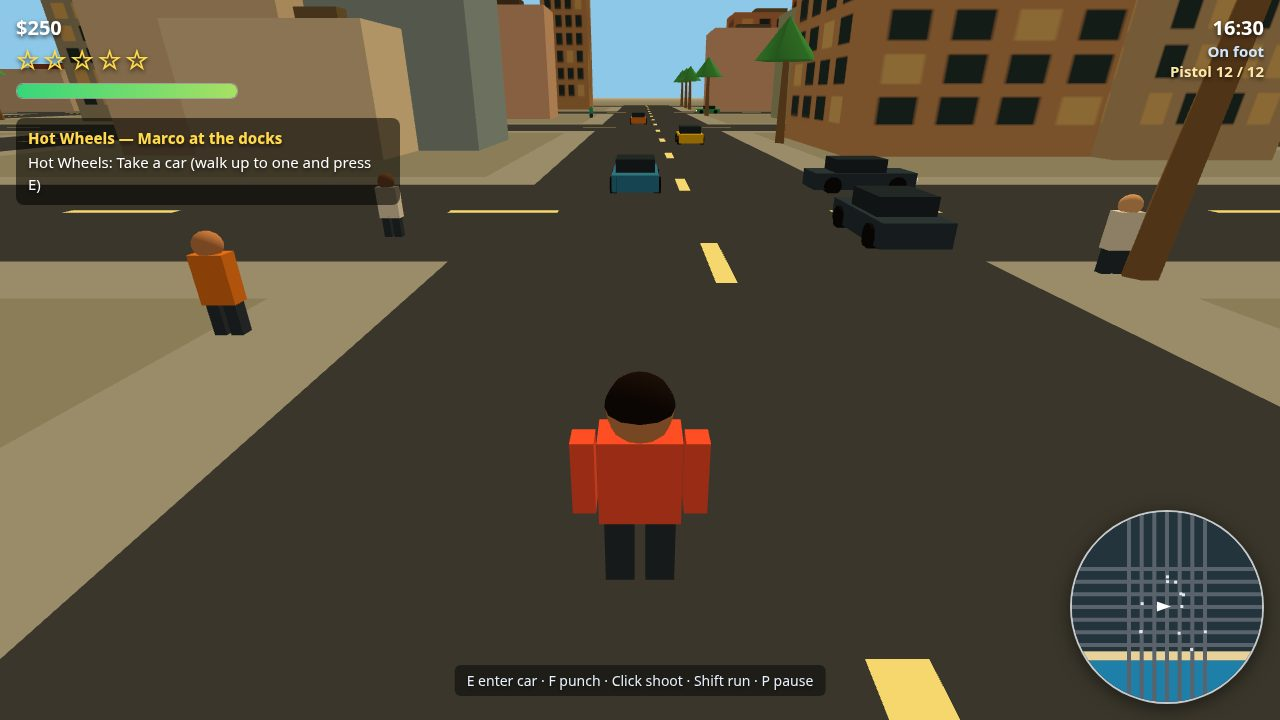
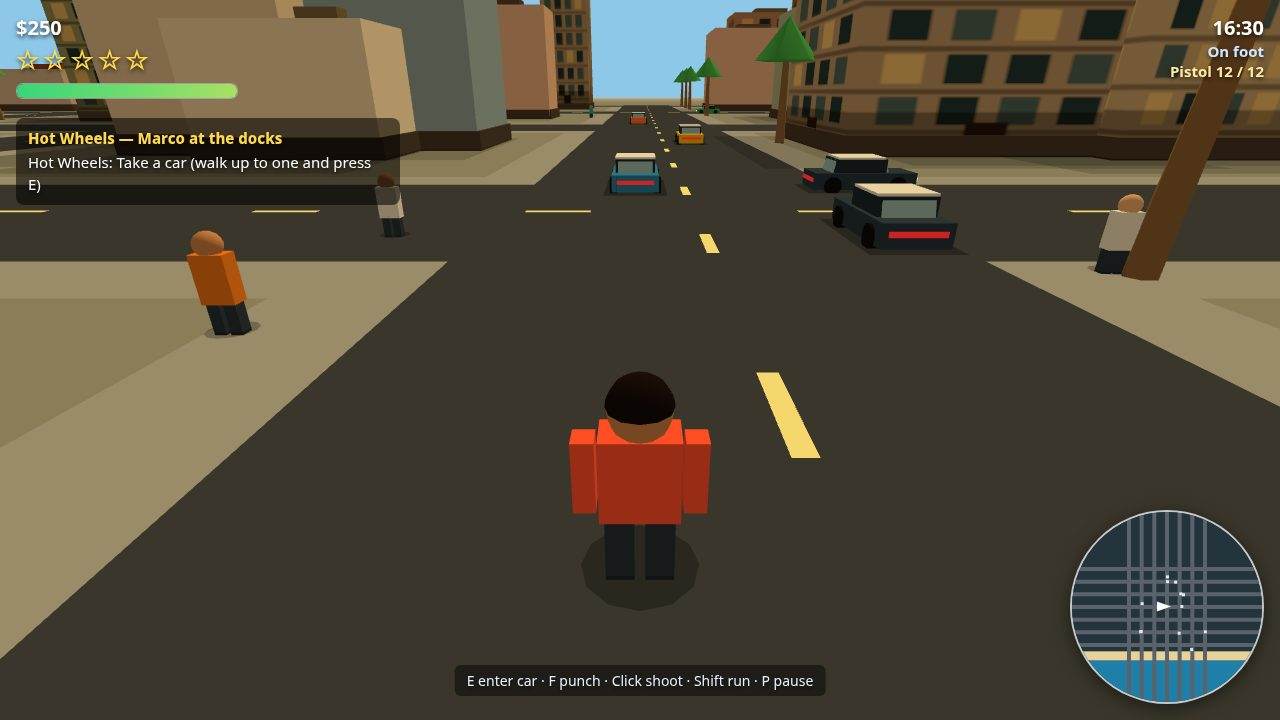
Palmera City v3: R3 final polish — fake-AO shadows + facade depth, glasshouse traffic cars, smaller dashes, intersection start screen, mission-text fix, southern cover
- Shadows: real 1024 shadow map measured first in a /tmp copy and rejected
  (swiftshader start 5.7->3.1 fps, driving 3.8->1.5 fps); shipped cheap
  grounding instead — blob shadows under cars/Luz/peds, dark plinth + soft
  ground shadow per building, floor lines + ground-floor band on facades.
  v3 perf: start 6.6 fps / driving 4.3 fps, no regression vs v2 baseline.
- Traffic cars read as cars now: pale roof slab + pale-blue windshield and
  rear glass + red taillights (mirroring headlights).
- Road dashes 4x0.5m @14m -> 2.4x0.35m @10m; no longer dominate on-foot shots.
- Start screen moved from empty sand (z=190) to the southern intersection
  (0,168) with yellow/blue parked cars, rolling traffic and locals in frame.
- Mission shot: m1 step text now 'Fight past the PD and reach the marina
  waypoint' to match the on-foot shootout; pre-heat 25 so the hit lands on
  two stars; combat (tracer + 'You hit a cruiser!' + 11/12 ammo) unchanged.
- Cover: chase moved to the southern avenue (z=110) so beach, sea, palms
  and lighthouse read in frame; minimap waypoint diamond enlarged ~40%.

diff --git a/game/src/shots.js b/game/src/shots.js
@@ -58,14 +58,27 @@ export function stageShot(name, ctx) {
   state.shotCam = null;
   if (name === 'start') {
     state.screen = 'start';
-    player.pos.x = 9;
-    player.pos.z = 190; // on the sand, clear of the beach palms (they start at z≈204)
-    player.camYaw = Math.PI + 0.12; // face the city from the beach, slightly angled
-    player.camPitch = 0.32;
-    state.shotCam = { dist: 8, pitch: 0.32 };
+    // R3: the old spot (sand at z=190) left the bottom half of the frame as
+    // empty sand. Stand at the southern intersection (0,168) instead: road,
+    // dashes and kerbs fill the foreground, with parked cars and locals in
+    // frame and the skyline still behind the panel.
+    player.pos.x = 0;
+    player.pos.z = 168;
+    player.camYaw = Math.PI + 0.08; // face the city from the beach road, slightly angled
+    player.camPitch = 0.34;
+    state.shotCam = { dist: 8, pitch: 0.34 };
     ctx.missions.index = 0;
     ctx.missions.step = 0;
     advanceWorld(ctx, 2);
+    // Parked cars at both kerbs of this road + locals on the sidewalks.
+    // Staged fresh in saturated fleet colours (repositioned random parked
+    // cars came out pale and unreadable here): yellow west kerb, blue east.
+    stageCar(ctx, 1, -5.5, 160, Math.PI / 2, 0);
+    stageCar(ctx, 0, 5.5, 156, -Math.PI / 2, 0);
+    stageCar(ctx, 0, -2.2, 148, Math.PI, 9); // traffic rolling away up the avenue
+    stagePed(ctx, -8, 158.5, 0);
+    stagePed(ctx, 7, 177.5, Math.PI);
+    stagePed(ctx, 12, 158.5, -Math.PI / 2);
     return { screen: 'start', announce: 'Palmera City. Press Space or click to start.' };
   }
   if (name === 'street') {
@@ -127,17 +140,24 @@ export function stageShot(name, ctx) {
     stagePed(ctx, 112, 102.5, 0);
     // The shot itself: hits the cruiser, so the message, the heat and the
     // tracer all say combat happened. Flash/tracer persist for the paints —
-    // the shot loop never steps combat in shot mode.
+    // the shot loop never steps combat in shot mode. R3: pre-heat to 25 so
+    // the +30 from the hit lands on ★★, and the step text in config now
+    // reads "Fight past the PD…" — the on-foot shootout matches the
+    // objective instead of contradicting a "drive the car" line.
+    state.heat = 25;
     tryShoot(ctx.combat, { x: player.pos.x, z: player.pos.z }, { x: 1, z: 0 }, ctx.peds, ctx.police.cars, state);
     state.message = 'You hit a cruiser!';
     state.messageTimer = 99;
     return { screen: 'play', announce: 'Playing Palmera City.' };
   }
   // chase (cover): driving fast with three cruisers on the tail, 3 stars.
+  // R3: staged on the southern avenue (z≈110, driving south) instead of
+  // z=−56, so the beach road, palms and the sea sit in the frame ahead
+  // instead of a thin strip at the horizon.
   ctx.missions.index = 2;
   ctx.missions.step = 1; // evade — lose the cops
   state.heat = 65;
-  const car = putPlayerInCar(ctx, 0, -56, 0);
+  const car = putPlayerInCar(ctx, 0, 110, 0);
   car.speed = 26;
   player.camYaw = 0;
   // Higher and further back than v1, slightly offset: the flanking walls
@@ -151,7 +171,7 @@ export function stageShot(name, ctx) {
     // Two cruisers ahead coming head-on, one on the tail: the chase reads
     // from the driving camera, which looks where the car is going.
     const ahead = i < 2;
-    const cz = ahead ? -56 + 50 + i * 9 : -56 - 16;
+    const cz = ahead ? 110 + 50 + i * 9 : 110 - 16;
     const cruiser = createCar(ctx.render.scene, -4 + i * 5, cz, ahead ? Math.PI : 0, 0xf2f2f2, true);
     cruiser.driver = 'police';
     cruiser.speed = 22;

diff --git a/game/src/world.js b/game/src/world.js
@@ -7,11 +7,13 @@
 import * as THREE from 'three';
 import { CITY, PALETTE } from './config.js';
 
-const FACADE_WALLS = ['#d8c9b0', '#e0b890', '#c9b8a3', '#b8c4c9'];
+const FACADE_WALLS = ['#d8c9b0', '#e0b890', '#c9b8a3', '#b8c4c9', '#d9a06b', '#a8b89a'];
 
 function windowTexture(rng) {
   // One shared facade texture per wall tone: lit windows on a warm wall,
-  // drawn once on canvas. Tall buildings pick one of the tones.
+  // drawn once on canvas. Tall buildings pick one of the tones. R3: floor
+  // separator lines + a darker ground floor with a door, so the slab reads
+  // as stacked storeys instead of a flat dotted box.
   const c = document.createElement('canvas');
   c.width = 64;
   c.height = 128;
@@ -20,10 +22,19 @@ function windowTexture(rng) {
   g.fillRect(0, 0, 64, 128);
   for (let y = 8; y < 120; y += 16) {
     for (let x = 6; x < 56; x += 14) {
-      g.fillStyle = rng.next() < 0.45 ? '#ffe9a8' : '#2e4a5a';
+      const r = rng.next();
+      g.fillStyle = r < 0.35 ? '#ffe9a8' : r < 0.75 ? '#2e4a5a' : '#5a7a8a';
       g.fillRect(x, y, 9, 11);
     }
+    // Floor line under each row of windows.
+    g.fillStyle = 'rgba(0,0,0,0.28)';
+    g.fillRect(0, y + 13, 64, 2);
   }
+  // Ground floor: darker band + a door, so the base is not just wall.
+  g.fillStyle = 'rgba(0,0,0,0.30)';
+  g.fillRect(0, 110, 64, 18);
+  g.fillStyle = '#2e2118';
+  g.fillRect(27, 114, 10, 14);
   const tex = new THREE.CanvasTexture(c);
   tex.colorSpace = THREE.SRGBColorSpace;
   return tex;
@@ -91,8 +102,10 @@ export function createWorld(scene, rng) {
       walk.position.set(horizontal ? 0 : c, 0.06, horizontal ? c : 0);
       if (!horizontal) walk.rotation.z = Math.PI / 2;
       group.add(walk);
-      for (let d = -half; d <= half; d += 14) {
-        const dash = new THREE.Mesh(new THREE.PlaneGeometry(4, 0.5), dashMat);
+      // R3: dashes were 4 m long and read as giant yellow slabs in the
+      // foreground of on-foot shots — 2.4 m, narrower, spaced 10 m apart.
+      for (let d = -half; d <= half; d += 10) {
+        const dash = new THREE.Mesh(new THREE.PlaneGeometry(2.4, 0.35), dashMat);
         dash.rotation.x = -Math.PI / 2;
         dash.position.set(horizontal ? d : c, 0.1, horizontal ? c : d);
         if (!horizontal) dash.rotation.z = Math.PI / 2;
@@ -138,6 +151,22 @@ export function createWorld(scene, rng) {
         roof.scale.set(w * 0.4, 1.2, d * 0.4);
         roof.position.set(x, h + 0.6, z);
         group.add(roof);
+        // R3 fake grounding (no shadow map: a 1024 map over the whole city
+        // cost −46% start / −61% driving FPS in swiftshader, and its texels
+        // would be ~0.4 m anyway). A dark plinth band at the base reads as
+        // contact shadow, and a soft ground shadow falls to the north-west,
+        // away from the low south-eastern sun.
+        const plinth = new THREE.Mesh(roofGeo, new THREE.MeshLambertMaterial({ color: 0x4a4038 }));
+        plinth.scale.set(w + 0.5, 1.4, d + 0.5);
+        plinth.position.set(x, 0.7, z);
+        group.add(plinth);
+        const bShadow = new THREE.Mesh(
+          new THREE.PlaneGeometry(w + 8, d + 8),
+          new THREE.MeshBasicMaterial({ color: 0x000000, transparent: true, opacity: 0.16, depthWrite: false }),
+        );
+        bShadow.rotation.x = -Math.PI / 2;
+        bShadow.position.set(x - 4, 0.12, z - 3);
+        group.add(bShadow);
         colliders.push({ minX: x - w / 2, maxX: x + w / 2, minZ: z - d / 2, maxZ: z + d / 2 });
       }
     }

diff --git a/game/src/vehicles.js b/game/src/vehicles.js
@@ -18,6 +18,24 @@ export function makeCarMesh(color, police) {
   );
   cabin.position.set(0, 1.15, -0.2);
   group.add(cabin);
+  // R3: the cabin read as a plain black slab on dark traffic cars. A pale
+  // roof slab + pale-blue glass front/rear give every car a two-tone
+  // glasshouse, so traffic reads as cars from behind and above, not boxes.
+  const roofSlab = new THREE.Mesh(
+    new THREE.BoxGeometry(1.74, 0.08, 2.0),
+    new THREE.MeshLambertMaterial({ color: police ? PALETTE.policeWhite : 0xe8eef2 }),
+  );
+  roofSlab.position.set(0, 1.49, -0.2);
+  group.add(roofSlab);
+  const glassMat = new THREE.MeshLambertMaterial({ color: 0x9fc8dd });
+  const shield = new THREE.Mesh(new THREE.BoxGeometry(1.5, 0.55, 0.06), glassMat);
+  shield.position.set(0, 1.15, 0.93);
+  shield.rotation.x = -0.28;
+  group.add(shield);
+  const rearGlass = new THREE.Mesh(new THREE.BoxGeometry(1.5, 0.55, 0.06), glassMat);
+  rearGlass.position.set(0, 1.15, -1.33);
+  rearGlass.rotation.x = 0.28;
+  group.add(rearGlass);
   if (police) {
     const stripe = new THREE.Mesh(new THREE.BoxGeometry(2.02, 0.25, 4.42), new THREE.MeshLambertMaterial({ color: PALETTE.policeBlack }));
     stripe.position.y = 0.62;
@@ -52,9 +70,23 @@ export function makeCarMesh(color, police) {
     group.add(w);
     wheels.push(w);
   }
+  // R3 blob shadow: a soft dark ellipse under the car, so it sits on the
+  // road instead of floating on it. (A real shadow map was measured and
+  // rejected: −46%/−61% FPS in swiftshader — see world.js.)
+  const blob = new THREE.Mesh(
+    new THREE.PlaneGeometry(2.7, 5.0),
+    new THREE.MeshBasicMaterial({ color: 0x000000, transparent: true, opacity: 0.3, depthWrite: false }),
+  );
+  blob.rotation.x = -Math.PI / 2;
+  blob.position.y = 0.12;
+  group.add(blob);
   const head = new THREE.Mesh(new THREE.BoxGeometry(1.6, 0.18, 0.2), new THREE.MeshBasicMaterial({ color: 0xfff6c8 }));
   head.position.set(0, 0.6, 2.22);
   group.add(head);
+  // Taillights mirror the headlights.
+  const tail = new THREE.Mesh(new THREE.BoxGeometry(1.6, 0.16, 0.1), new THREE.MeshBasicMaterial({ color: 0xcc2222 }));
+  tail.position.set(0, 0.6, -2.22);
+  group.add(tail);
   return { group, wheels };
 }
 

diff --git a/game/src/hud.js b/game/src/hud.js
@@ -95,17 +95,18 @@ export function createHud() {
       ctx.beginPath(); ctx.moveTo(toX(c), 0); ctx.lineTo(toX(c), H); ctx.stroke();
       ctx.beginPath(); ctx.moveTo(0, toY(c)); ctx.lineTo(W, toY(c)); ctx.stroke();
     }
-    // Waypoint diamond (large, with a white ring so it reads at a glance).
+    // Waypoint diamond (R3: enlarged ~40% with a white ring so it reads at
+    // a glance, even at contact-sheet scale).
     if (data.waypoint) {
       const wx = toX(data.waypoint.x);
       const wy = toY(data.waypoint.z);
       ctx.fillStyle = '#fff';
       ctx.beginPath();
-      ctx.moveTo(wx, wy - 12); ctx.lineTo(wx + 10, wy); ctx.lineTo(wx, wy + 12); ctx.lineTo(wx - 10, wy);
+      ctx.moveTo(wx, wy - 17); ctx.lineTo(wx + 14, wy); ctx.lineTo(wx, wy + 17); ctx.lineTo(wx - 14, wy);
       ctx.closePath(); ctx.fill();
       ctx.fillStyle = '#ffd94a';
       ctx.beginPath();
-      ctx.moveTo(wx, wy - 8); ctx.lineTo(wx + 7, wy); ctx.lineTo(wx, wy + 8); ctx.lineTo(wx - 7, wy);
+      ctx.moveTo(wx, wy - 12); ctx.lineTo(wx + 10, wy); ctx.lineTo(wx, wy + 12); ctx.lineTo(wx - 10, wy);
       ctx.closePath(); ctx.fill();
     }
     // Traffic dots.

diff --git a/game/src/pedestrians.js b/game/src/pedestrians.js
@@ -31,8 +31,18 @@ export function spawnPed(scene, rng, x, z, heading) {
   group.position.set(x, 0, z);
   group.rotation.y = heading;
   scene.add(group);
+  // R3 blob shadow, kept out of the group: the group tips over (rotation.x)
+  // when a ped is knocked down, which would stand the blob upright. The
+  // blob lives in the scene and is synced in stepPedestrians.
+  const blob = new THREE.Mesh(
+    new THREE.CircleGeometry(0.45, 12),
+    new THREE.MeshBasicMaterial({ color: 0x000000, transparent: true, opacity: 0.26, depthWrite: false }),
+  );
+  blob.rotation.x = -Math.PI / 2;
+  blob.position.set(x, 0.12, z);
+  scene.add(blob);
   return {
-    mesh: group, legL, legR,
+    mesh: group, legL, legR, blob,
     pos: { x, z },
     heading,
     speed: rng.range(0.8, 1.6),
@@ -106,6 +116,7 @@ export function stepPedestrians(peds, dt, rng, world, threat) {
     ped.legR.rotation.x = -Math.sin(ped.phase) * 0.5;
     ped.mesh.position.set(ped.pos.x, 0, ped.pos.z);
     ped.mesh.rotation.y = ped.heading;
+    if (ped.blob) ped.blob.position.set(ped.pos.x, 0.12, ped.pos.z);
   }
 }
 

diff --git a/game/src/player.js b/game/src/player.js
@@ -32,6 +32,14 @@ export function createPlayer(scene) {
   const armR = new THREE.Mesh(armGeo, shirt);
   armR.position.set(0.48, 1.15, 0);
   group.add(armR);
+  // R3 blob shadow: grounds Luz on the street (same cheap approach as cars).
+  const blob = new THREE.Mesh(
+    new THREE.CircleGeometry(0.55, 12),
+    new THREE.MeshBasicMaterial({ color: 0x000000, transparent: true, opacity: 0.28, depthWrite: false }),
+  );
+  blob.rotation.x = -Math.PI / 2;
+  blob.position.y = 0.12;
+  group.add(blob);
   scene.add(group);
   return {
     mesh: group,

diff --git a/game/src/config.js b/game/src/config.js
@@ -78,7 +78,7 @@ export const MISSIONS = [
     story: 'Marco needs a car, fast, and he does not ask where it came from. Take any car on the street and bring it to the blue waypoint at the marina.',
     steps: [
       { type: 'steal', text: 'Take a car (walk up to one and press E)' },
-      { type: 'goto', pos: [150, 150], radius: 10, text: 'Drive the car to the marina waypoint' },
+      { type: 'goto', pos: [150, 150], radius: 10, text: 'Fight past the PD and reach the marina waypoint' },
     ],
   },
   {
